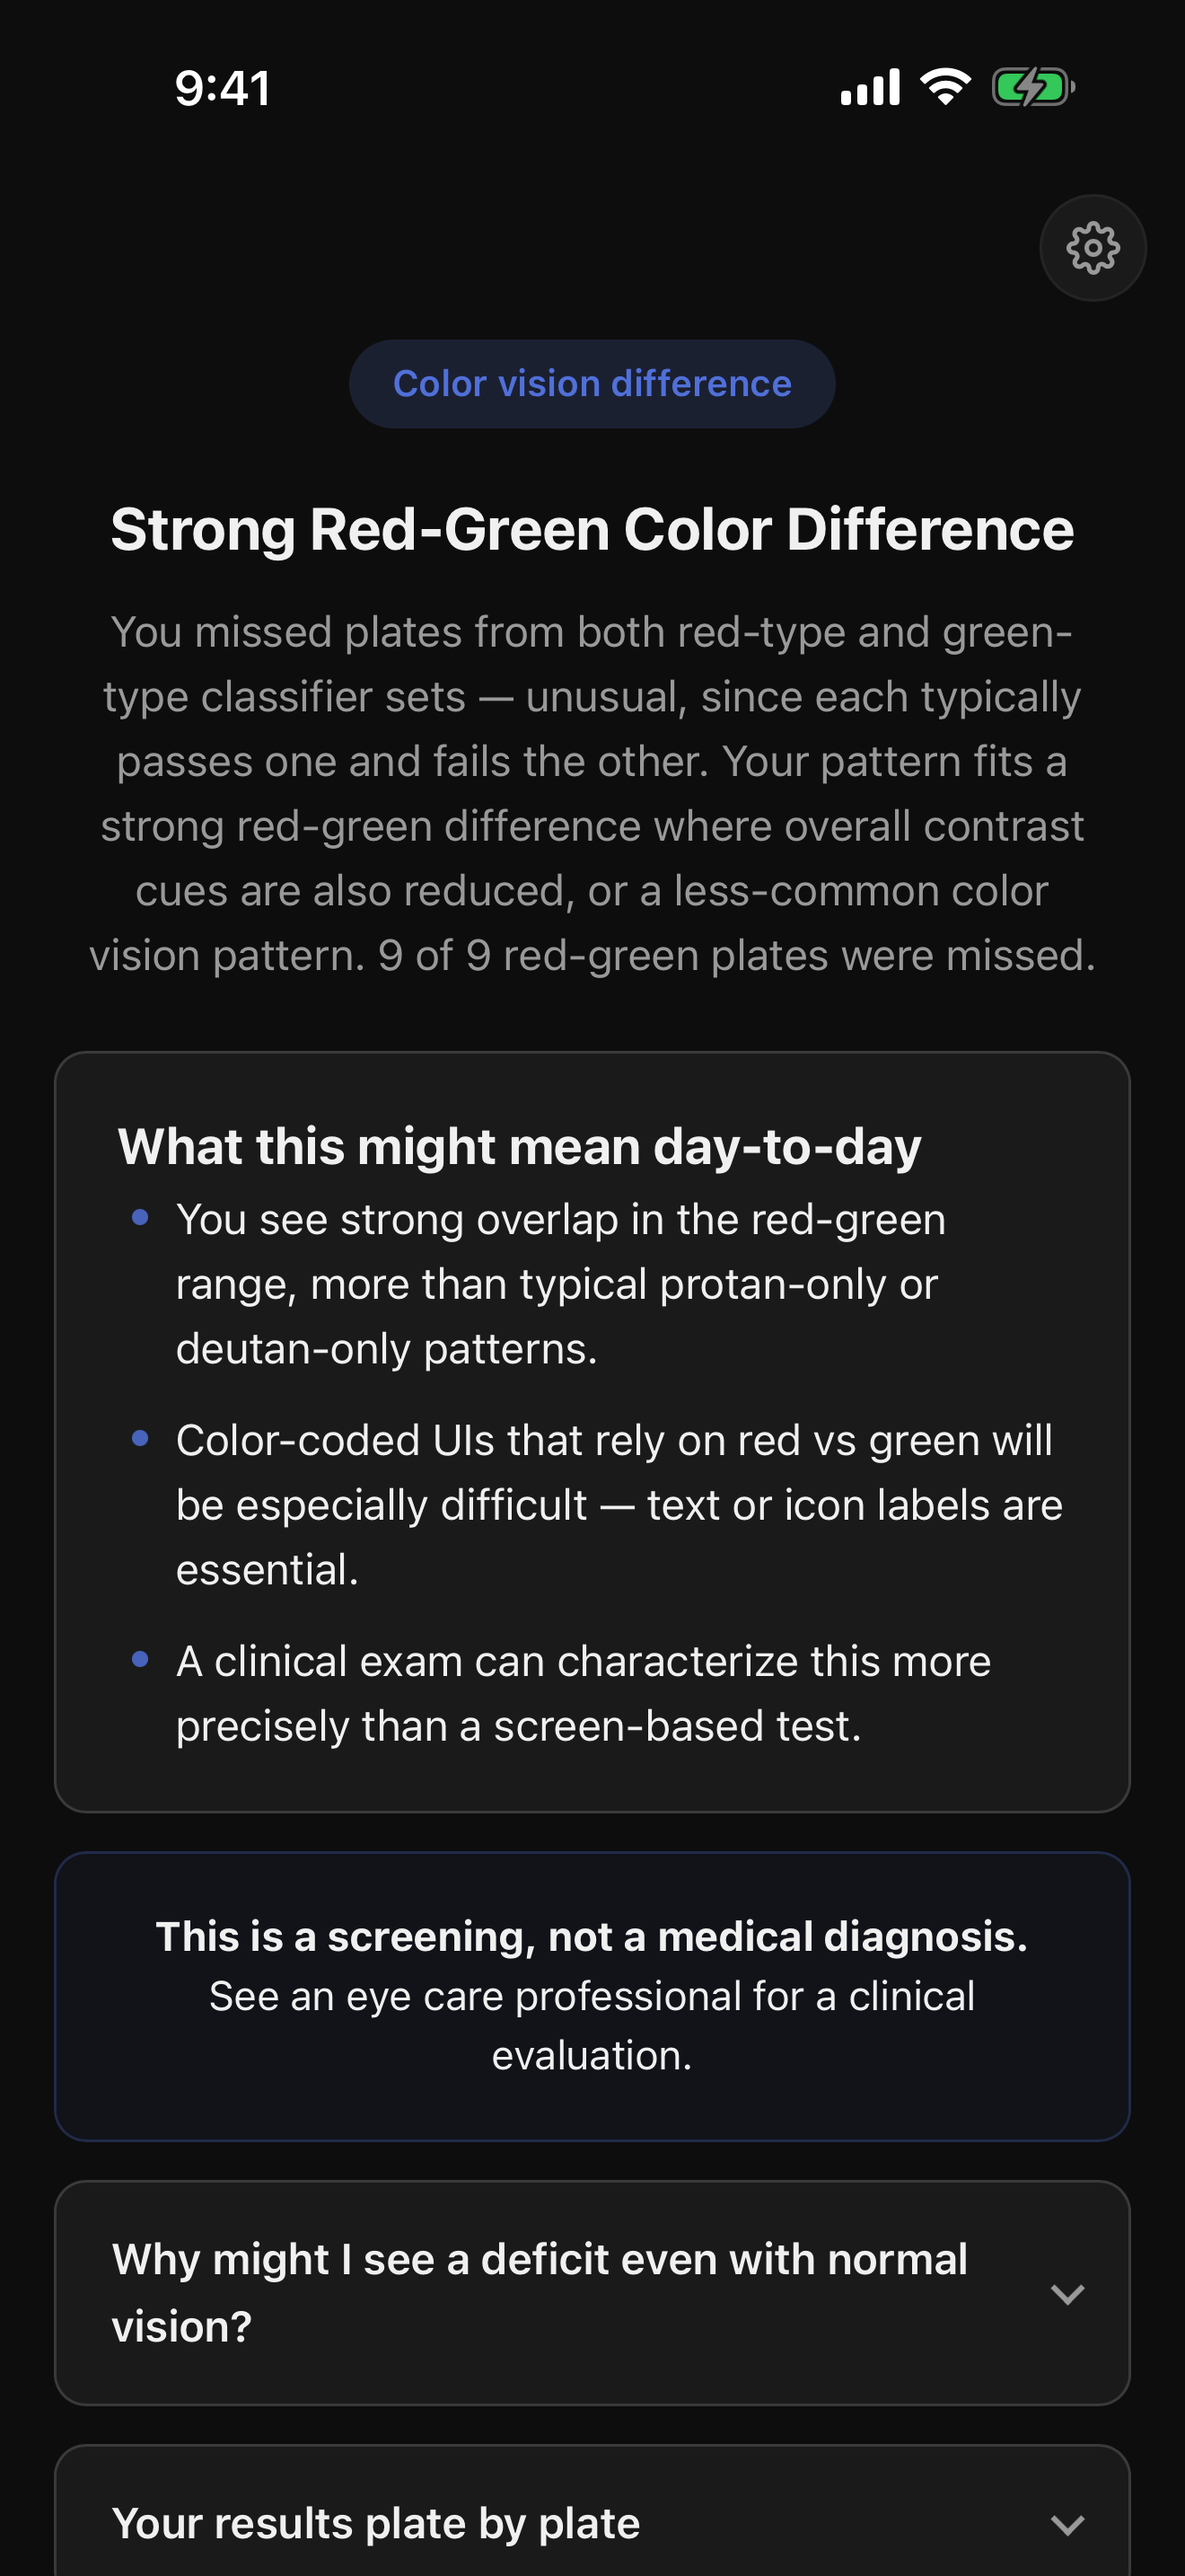
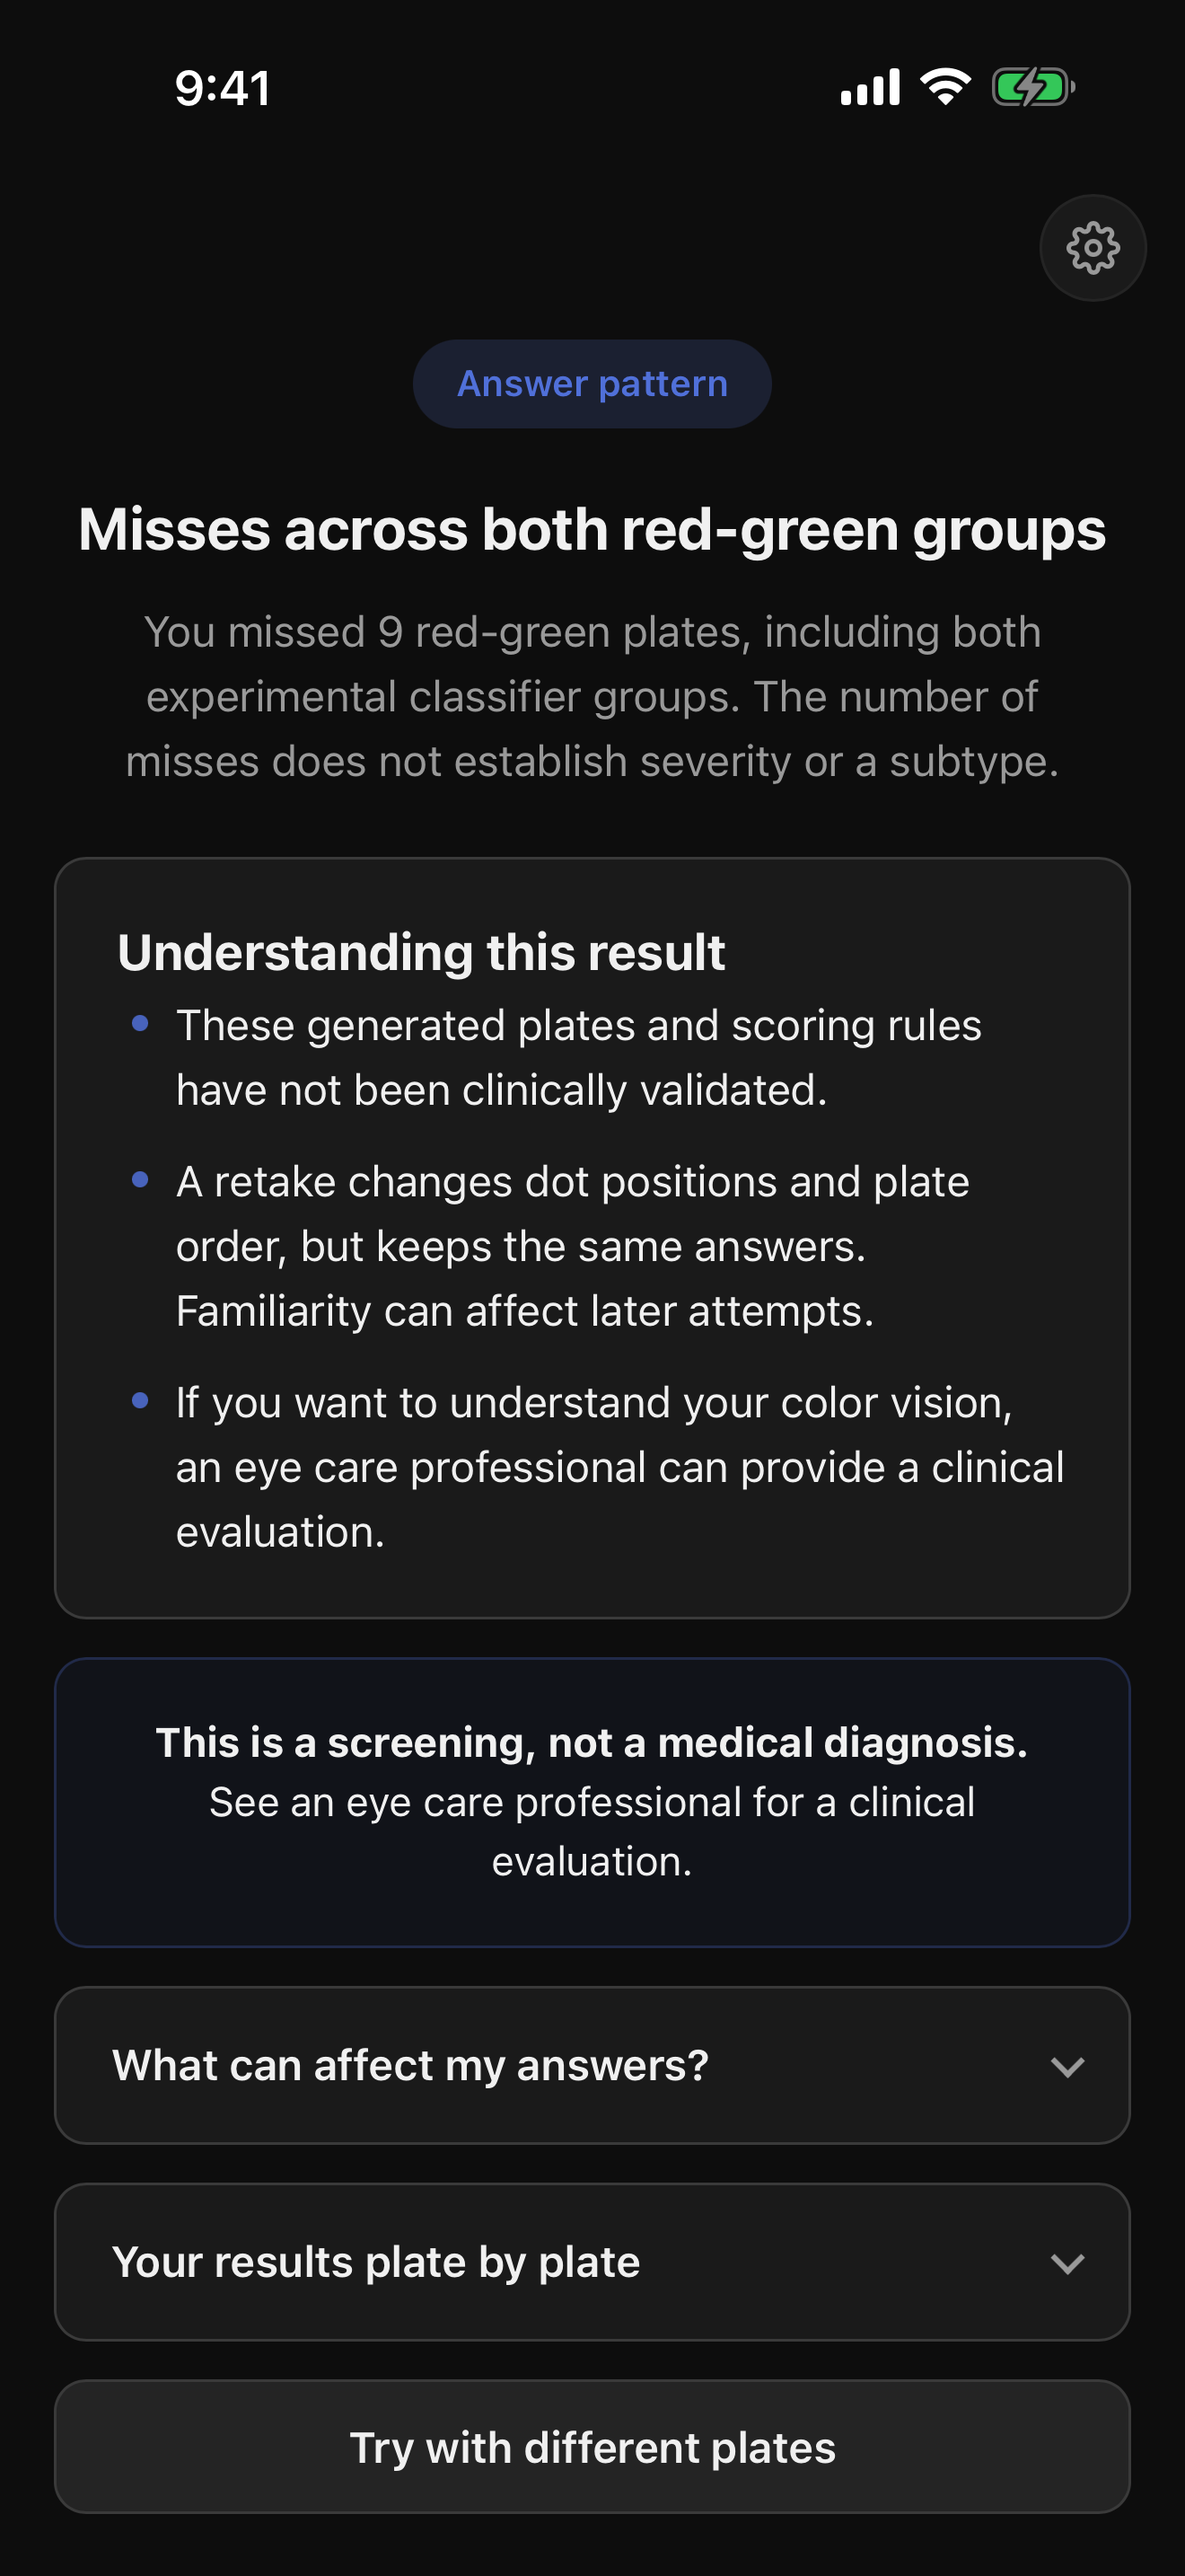
Store listing and screenshots match the 1.0.4 result wording

diff --git a/ios/app-store-listing.md b/ios/app-store-listing.md
@@ -78,40 +78,44 @@ English (U.S.)
 ## Description (4000 char max)
 
 ```
-I'm colorblind. Every "color blind test" app I tried was either a marketing funnel, an ad farm, or scientifically wrong. So I built the one I wanted: real methodology, sources cited, nothing to sign up for.
+I'm colorblind. Every "color blind test" app I tried was either a marketing funnel, an ad farm, or scientifically wrong. So I built the one I wanted: the method written down, sources cited, nothing to sign up for.
 
-Color Vision Plates is a 14-plate screening for red-green and blue-yellow color vision deficiency. It doesn't just say "you're colorblind" — it attempts to classify the type: protan (red-weak), deutan (green-weak), or tritan (blue-yellow), using dedicated classifier plates that vanish for one type but not the other.
+Color Vision Plates is a 14-plate screening for red-green and blue-yellow color vision differences. It tells you which groups of plates you missed. It does not name a type or a severity, because a phone screening can't establish either.
 
 HOW IT WORKS
 
-• Ishihara-style number plates and HRR-style shape plates (the two standard clinical methodologies, in use since 1917 and 1954)
-• Classifier plate colors generated by simulating dichromatic vision with the Brettel-Viénot-Mollon (1997) model and selecting pairs that survive one deficiency and disappear under the other
-• All plate colors defined in CIELAB with matched luminance, so hue is the only available cue — no brightness leaks to give the figure away
-• A display calibration check before the test starts, because a dimmed or Night-Shifted screen produces false positives
-• A control plate that catches display problems and flags the result as inconclusive instead of guessing
-• Plate order shuffles and dot patterns reroll on every retake, so you can't memorize an answer key
+• Number plates and shape plates inspired by the Ishihara (1917) and HRR (1954) tests. These are original generated plates, not scans of the clinical sets
+• Plates are grouped into red-green, experimental protan-design and deutan-design, blue-yellow, and control sets
+• Plate colors are specified in CIELAB and checked with color-vision simulations (Brettel, Viénot & Mollon 1997) and the CIEDE2000 color difference. Those checks describe the math, not what any one person will see
+• A gray-patch check before the test starts, because a dimmed or Night-Shifted screen changes what you see. It does not calibrate your screen's colors
+• A brightness-contrast control plate. Miss it and the result is marked inconclusive instead of guessing
+• Plate order shuffles and dot patterns reroll on every retake
 
 WHAT YOU GET
 
-• A plain-English result ("Likely Green-Type Color Difference") with the clinical term alongside for your eye doctor
-• What the result might mean day-to-day — brake lights, status indicators, charts, ripe fruit
+• A plain result that describes your answers, such as "Several red-green plates missed" or "Most or all plates matched"
+• What can affect your answers: display, brightness, color filters, lighting
 • A plate-by-plate review of every answer
-• Screening history saved on your device, so you can retest over time and compare honestly
-• The methodology and full citations, one tap away, always
+• Screening history saved on your device, so you can retest over time and compare
+• The method, its limits and full citations, one tap away
 
 THE HONEST PART
 
-This is a screening, not a medical diagnosis. Phone screens vary; clinical tests use calibrated printed plates under standardized lighting. The app says this everywhere — before the test, on your results, in your history — because a screening tool that oversells itself is worse than none. If your results suggest a color vision difference, see an eye care professional.
+This is an experimental screening, not a medical diagnosis. Its sensitivity, specificity and subtype accuracy have not been established. Phone screens vary; clinical tests use calibrated printed plates under standardized lighting. Matching every plate does not rule out a color vision difference. The app says this before the test, on your results and in your history, because a screening tool that oversells itself is worse than none. If your results suggest a color vision difference, see an eye care professional.
 
 PRIVACY
 
-No accounts. No tracking. No analytics. No ads. No network calls — the entire test is bundled with the app and runs offline. Your results stay on your device, and you can erase them anytime.
+No accounts. No tracking. No analytics. No ads. No network calls. The entire test is bundled with the app and runs offline. Your results stay on your device, and you can erase them anytime.
 
-THE SCIENCE
+OPEN SOURCE
 
-Ishihara (1917); Hardy, Rand & Rittler (1954); Brettel, Viénot & Mollon (1997); Sharma, Wu & Dalal (2005) for CIEDE2000 color difference; Birch (2012) on prevalence.
+The app and its plate generator are MIT licensed. You can read exactly how every plate is made.
 
-From the maker of What Color Is This?, the camera color-identifier built for colorblind people. About 1 in 12 men and 1 in 200 women have a color vision difference. Most found out by accident. This is a better way.
+REFERENCES
+
+Ishihara (1917); Hardy, Rand & Rittler (1954); Brettel, Viénot & Mollon (1997); Viénot, Brettel & Mollon (1999); Sharma, Wu & Dalal (2005) for CIEDE2000 color difference; Birch (2012) on prevalence.
+
+From the maker of What Color Is This?, the camera color-identifier built for colorblind people. About 1 in 12 men and 1 in 200 women have a color vision difference. Most found out by accident.
 
 Made by Luke Steuber. Published by Bridge City Lab LLC.
 ```
@@ -131,7 +135,7 @@ colorblind,colorblindness,ishihara,screening,protan,deutan,tritan,daltonism,CVD,
 ## Promotional Text (170 char max — editable WITHOUT app review)
 
 ```
-Fourteen plates, real methodology, sources cited. A color vision screening built by a colorblind developer — not a marketing funnel. Free, offline, no signup.
+Fourteen plates, the method written down, sources cited. An experimental color vision screening built by a colorblind developer. Free, offline, open source.
 ```
 *(158 chars)*
 
